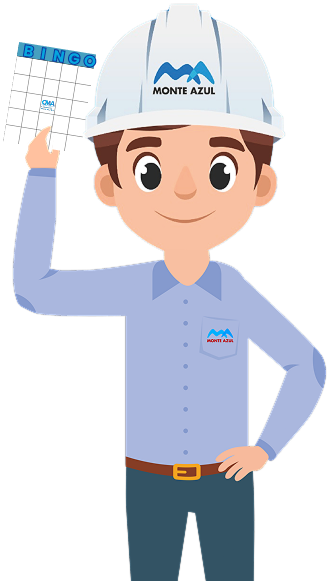
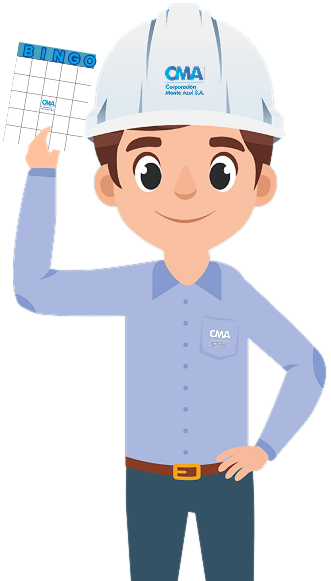
refactor: added cma brand to the toy

Changed region(s): [[0.4532, 0.0929, 0.6647, 0.1859], [0.6042, 0.5577, 0.7251, 0.5886]]

diff --git a/src/components/authentication/LoginComponent.vue b/src/components/authentication/LoginComponent.vue
@@ -119,7 +119,7 @@ export default {
   position: absolute;
   left: 17%;
   bottom: 0%;
-  width: 18%; 
+  width: 15%; 
 }
 
 .bingo-header img {